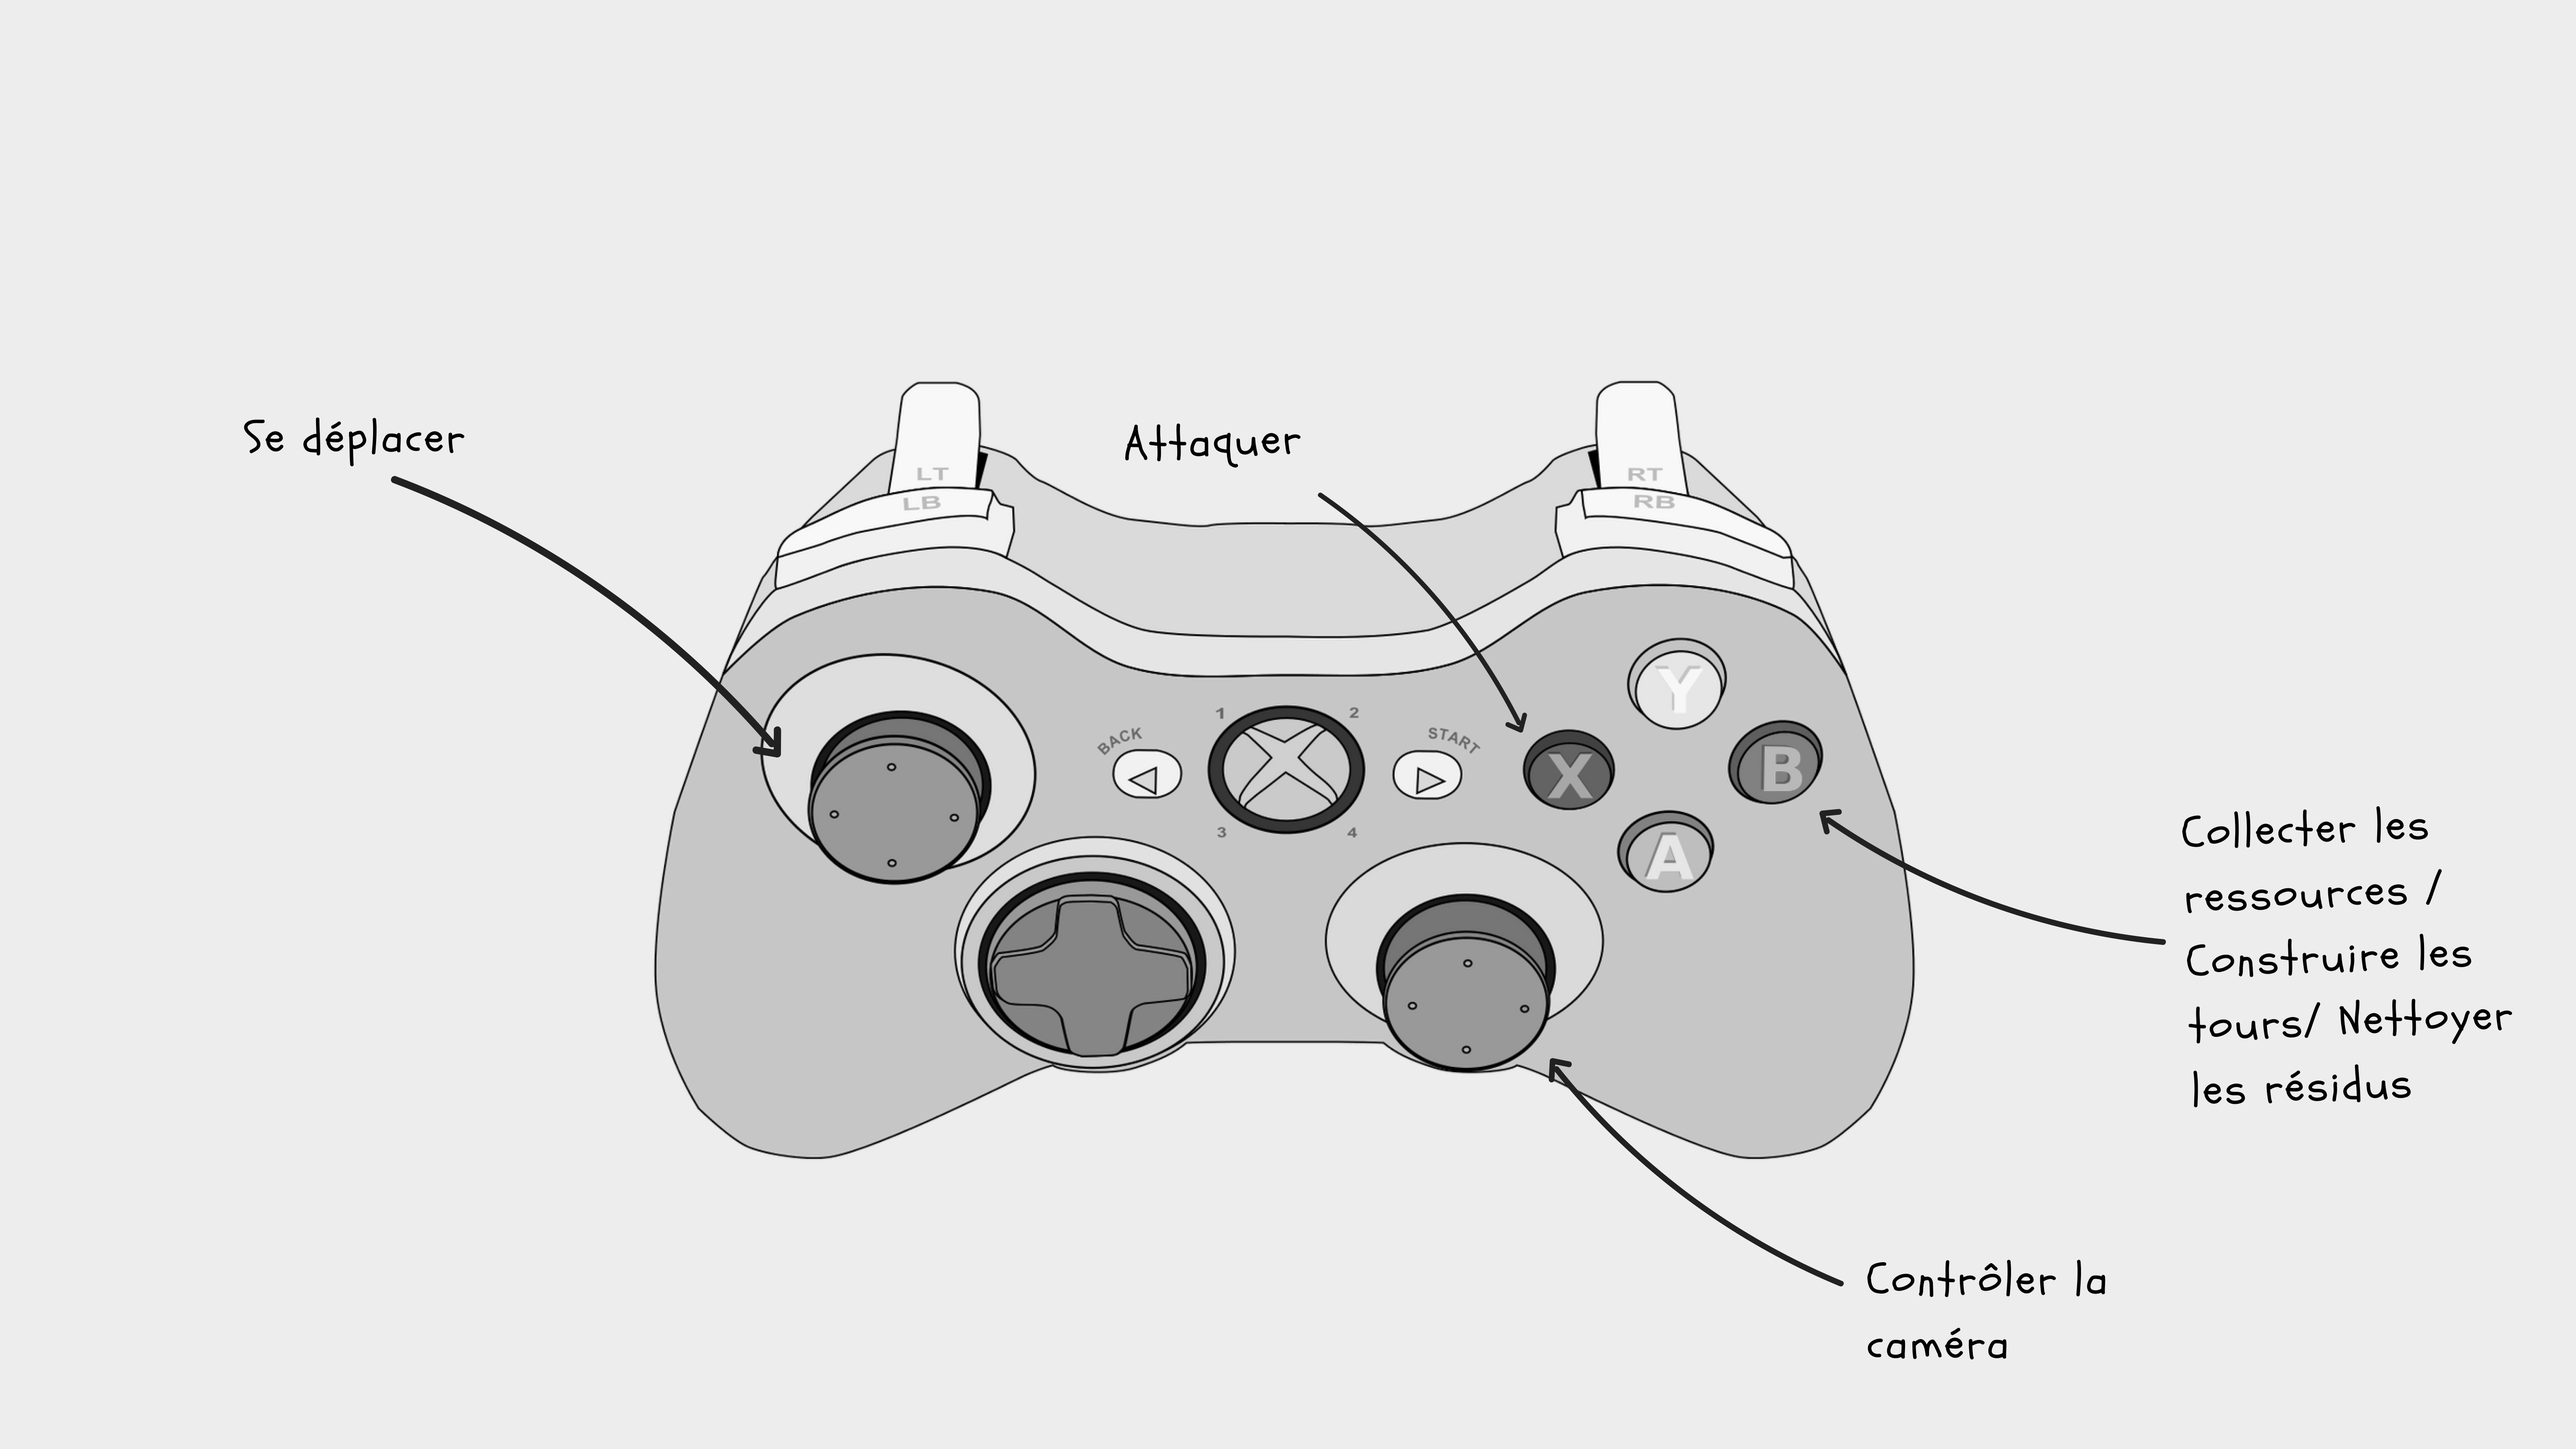
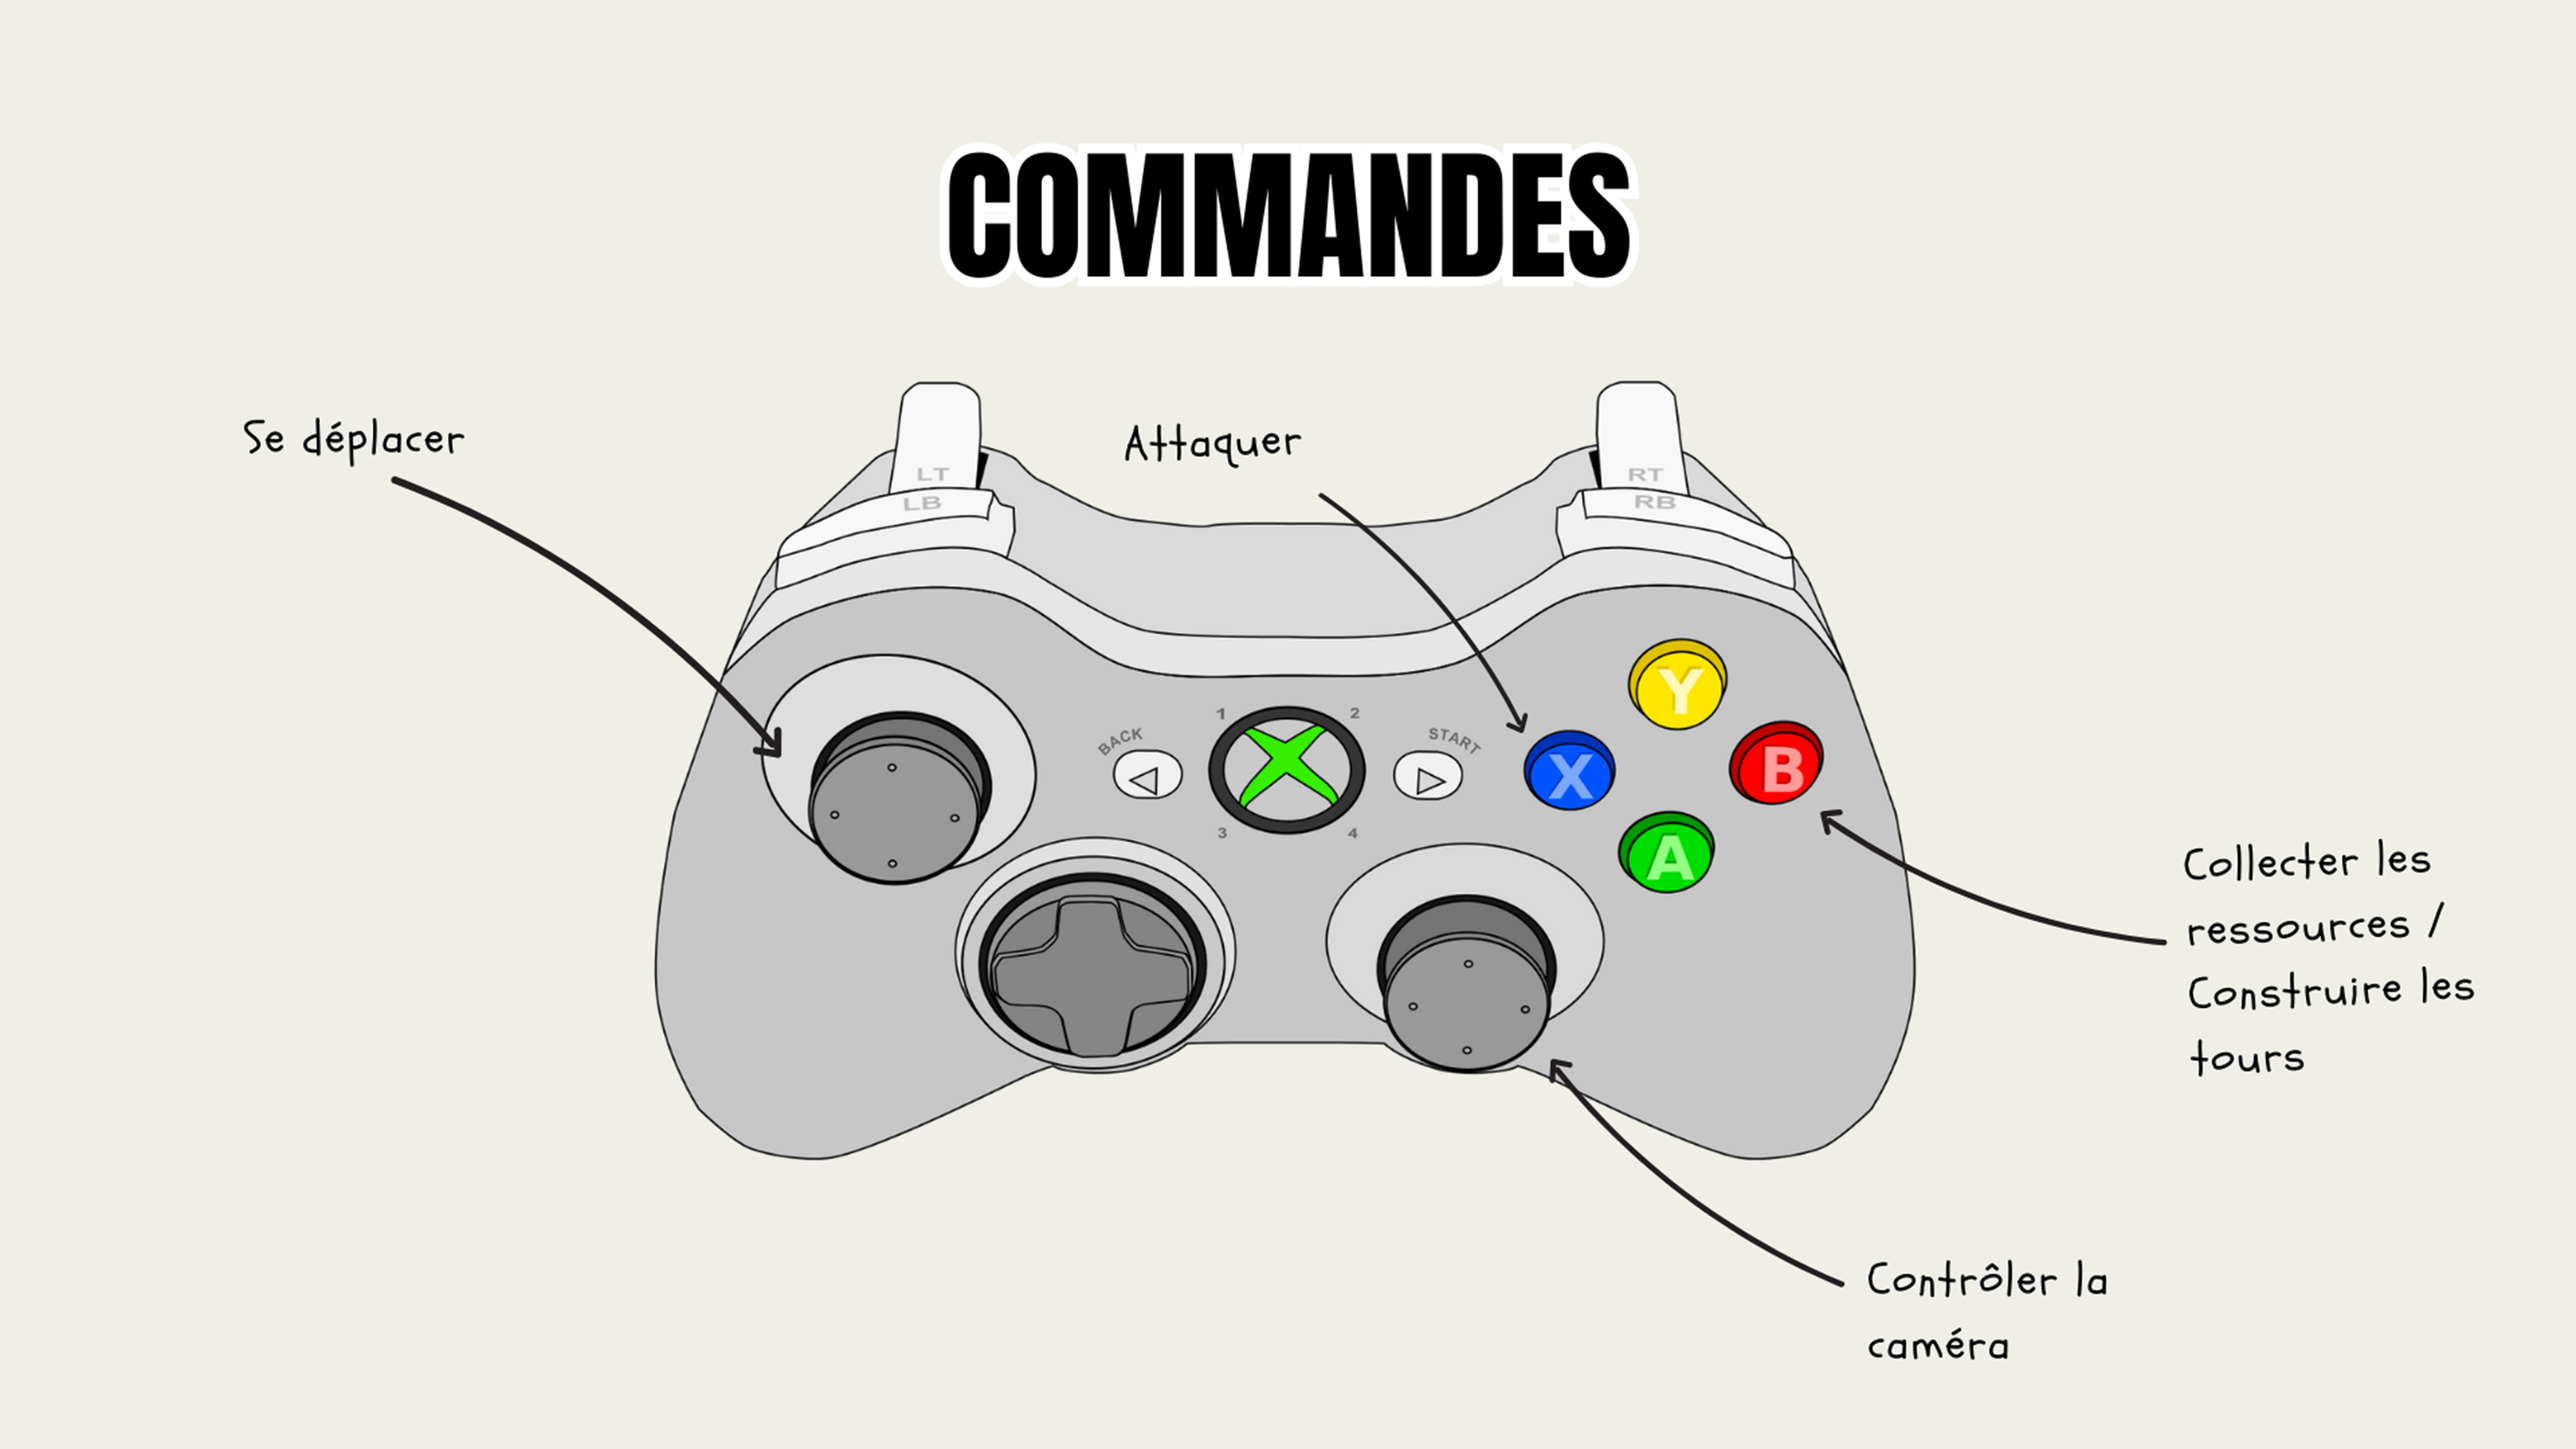
fixed cinematics, changed controller image, small gui fixes

diff --git a/Assets/Scripts/WinLoseHandler.cs b/Assets/Scripts/WinLoseHandler.cs
@@ -30,15 +30,15 @@ public class WinLoseHandler : Singleton<WinLoseHandler>
                 break;
             case GameState.DoorLost:
                 loseCanvas.SetActive(true);
-                EndGame("Attention! Les cauchemars ont r�ussi leur objectif. La petite Rosalie se r�veille de son cauchemar.", SoundManager.Instance.lostSound);
+                EndGame("Attention! Les cauchemars ont réussi leur objectif. La petite Rosalie se réveille de son cauchemar.", SoundManager.Instance.lostSound);
                 break;
             case GameState.Won:
                 winCanvas.SetActive(true);
-                EndGame("Bravo! Le r�ve a �t� stabilis�, vous avez vaincu tous les cauchemars", SoundManager.Instance.winSound);
+                EndGame("Bravo! Le reve a été stabilisé, vous avez vaincu tous les cauchemars", SoundManager.Instance.winSound);
                 break;
             case GameState.HpLost:
                 loseCanvas.SetActive(true);
-                EndGame("Attention! Un des d�fenseurs oniriques est tomb�. La petite Sophie se r�veille de son cauchemar.", SoundManager.Instance.lostSound);
+                EndGame("Attention! Un des défenseurs oniriques est tombé. La petite Sophie se réveille de son cauchemar.", SoundManager.Instance.lostSound);
                 break;
             default:
                 break;
@@ -50,7 +50,7 @@ public class WinLoseHandler : Singleton<WinLoseHandler>
         GameData.Instance.UpdateAllTowersData();
         var turretBuiltCount = GameData.Instance.turrets.FindAll(t => t.isBuilt).Count;
 
-        endGameText.text = text + $" Vous avez construit {turretBuiltCount} tours. Vous n'aurez pas acc�s � ces emplacements de construction pour les prochaines parties";
+        endGameText.text = text + $" Vous avez construit {turretBuiltCount} tours. Vous n'aurez pas accès a ces emplacements de construction pour les prochaines parties";
         AudioSource.PlayClipAtPoint(oneShotClip, transform.position);
         endGameCanvas.SetActive(true);  
     }

diff --git a/Assets/Scripts/VideoInteract.cs b/Assets/Scripts/VideoInteract.cs
@@ -5,7 +5,7 @@ using UnityEngine.UI;
 public class VideoInteract : MonoBehaviour
 {
     public VideoPlayer videoPlayer;
-    public GameObject intro;
+    public GameObject introGui;
     public Button skipButton, tutosButton, closeTutosButton;
     public GameObject tutos;
 
@@ -19,25 +19,25 @@ public class VideoInteract : MonoBehaviour
         skipButton.onClick.AddListener(skipTutos);
         tutosButton.onClick.AddListener(showTutos);
         closeTutosButton.onClick.AddListener(closeTutos);
-        intro.SetActive(false);
+        introGui.SetActive(false);
         tutos.SetActive(false);
         videoPlayer.loopPointReached += EndReached;
     }
 
     void EndReached(VideoPlayer vp)
     {
-        intro.SetActive(true);
+        introGui.SetActive(true);
     }
 
     public void skipTutos()
     {
-        intro.SetActive(false);
+        introGui.SetActive(false);
         videoPlayer.gameObject.SetActive(false);
     }
 
     public void showTutos()
     {
-        intro.SetActive(false);
+        introGui.SetActive(false);
         videoPlayer.gameObject.SetActive(false);
         tutos.SetActive(true);
     }

diff --git a/Assets/Scripts/PlayerResourceScript.cs b/Assets/Scripts/PlayerResourceScript.cs
@@ -7,6 +7,8 @@ using UnityEngine.UI;
 /// </summary>
 public class PlayerResourceScript : MonoBehaviour
 {
+
+    // [SerializeField] public GameObject sandIcon, waterIcon;
     [SerializeField]
     private Slider healthSlider;
 
@@ -17,6 +19,17 @@ public class PlayerResourceScript : MonoBehaviour
 
     [SerializeField]
     private TextMeshProUGUI resourceUi;
+
+    void Start() 
+    {
+        // bool IsSandman = transform.GetChild(0).gameObject.activeInHierarchy;
+        // if (IsSandman) 
+        // {
+        //     sandIcon.SetActive(true);
+        // } else {
+        //     waterIcon.SetActive(true);
+        // }
+    }
 
     public void ToggleResourceText(string text, bool isShowing)
     {

diff --git a/Assets/Scripts/DisableAfterVideo.cs b/Assets/Scripts/DisableAfterVideo.cs
@@ -4,9 +4,8 @@ using UnityEngine.Video;
 public class DisableAfterVideo : MonoBehaviour
 {
     public VideoPlayer videoPlayer;
-    public GameObject endMenu;
-
-    public GameObject endState;
+    [SerializeField] public GameObject endMenu;
+    [SerializeField] public GameObject endState;
 
     void Start()
     {
@@ -20,7 +19,7 @@ public class DisableAfterVideo : MonoBehaviour
 
     void EndReached(VideoPlayer vp)
     {
-        gameObject.SetActive(false);
+        //gameObject.SetActive(false);
         endMenu.SetActive(true);
         endState.SetActive(true);
     }
